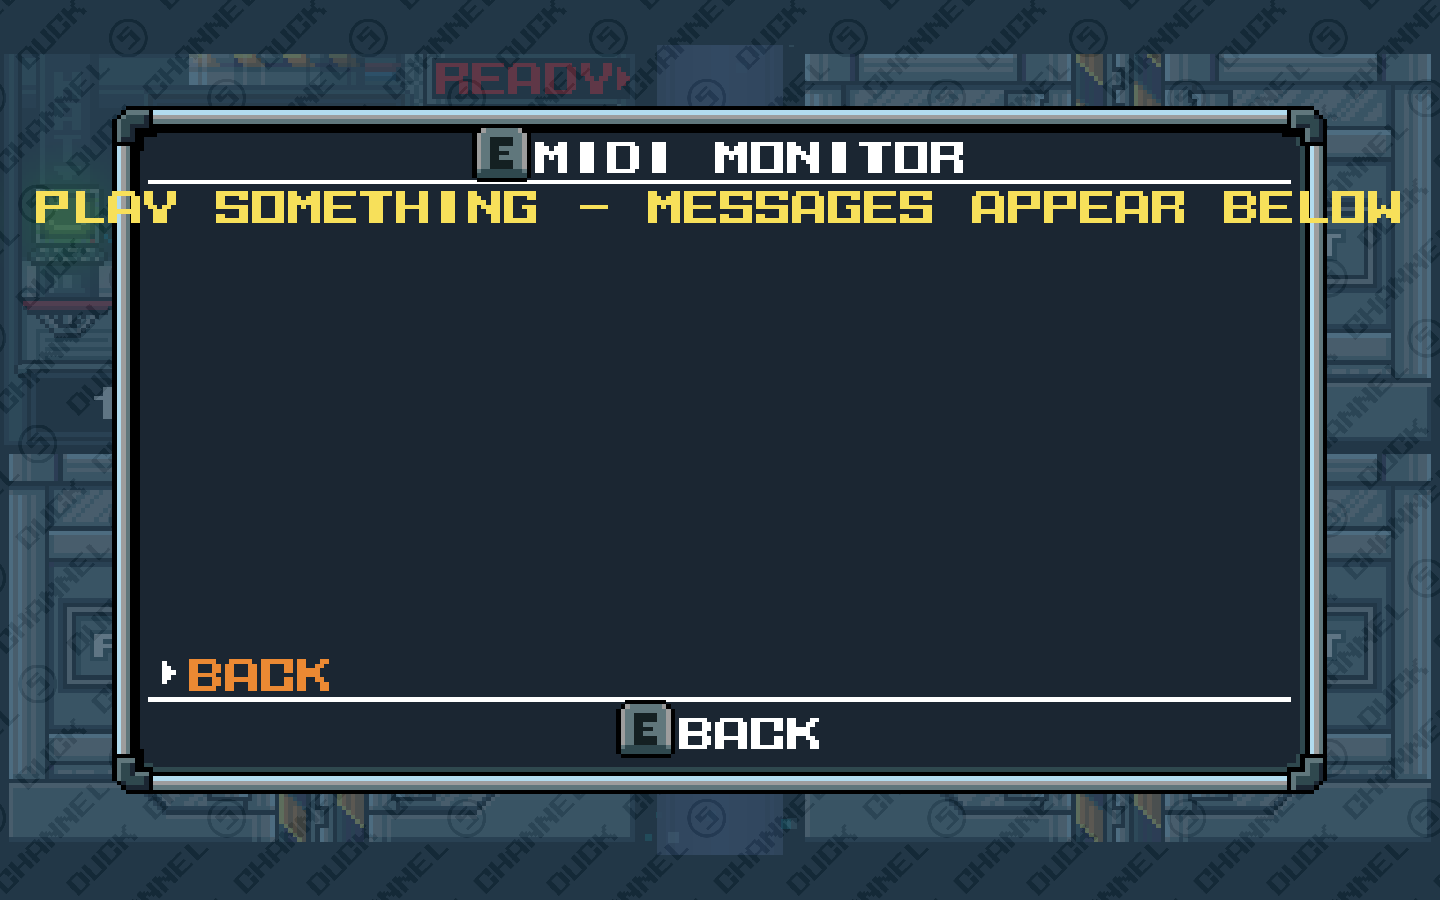
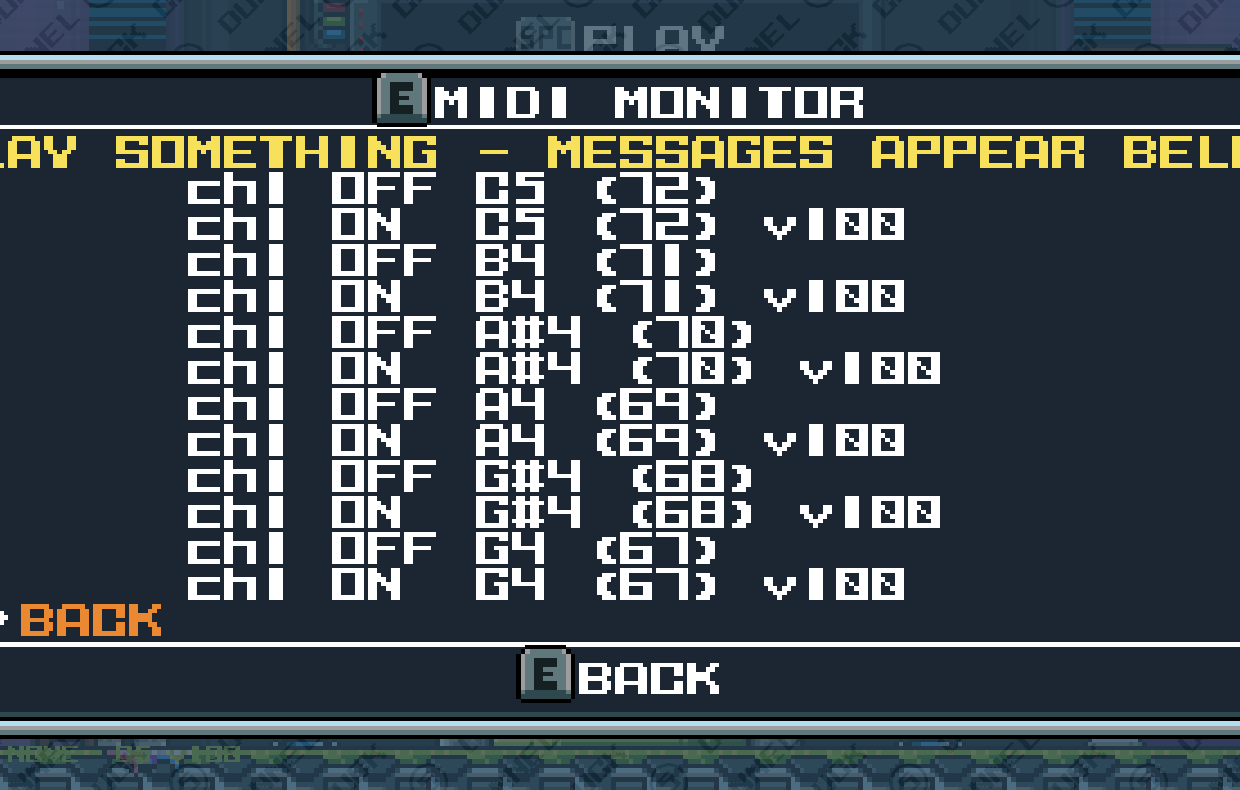
Weave screenshots through the README, and fix MIDI Monitor layout
Screenshots now sit next to the thing they explain rather than in a table at the
bottom: the settings menu as a hero shot, the wizard/device picker/HUD under
"Using it", both mapping pages under "Default mapping", play options under
"Settings", the monitor under "Troubleshooting" (where it is the actual
diagnostic step), and midi status under "Multiplayer" as evidence for the
"nomods" claim. Cropped to the dialog so they read at README width.

The monitor fix came out of capturing it: its rows were left-aligned UIText added
straight to a UIMenu, which anchors outside the dialog border, so every line
spilled over the frame. Centring them keeps them inside, and because the bitmap
font is monospace, padding each row to a fixed width makes centred rows line up
as columns anyway. Widened the page to 300 to fit the longest note-on line.

diff --git a/src/UI/MidiSettingsMenu.cs b/src/UI/MidiSettingsMenu.cs
@@ -330,21 +330,28 @@ namespace DuckGame.MidiController
 
         private static void BuildMonitorMenu(float cx, float cy)
         {
-            UIMenu m = new UIMenu("@QUACK@MIDI MONITOR", cx, cy, 270f,
+            UIMenu m = new UIMenu("@QUACK@MIDI MONITOR", cx, cy, 300f,
                 conString: "@CANCEL@BACK");
 
             m.Add(new UIText("PLAY SOMETHING - MESSAGES APPEAR BELOW", Colors.DGYellow, UIAlign.Center), true);
             for (int i = 0; i < 12; i++)
             {
                 int line = i;
+                // Centred, not left-aligned: a left-aligned UIText added straight to a
+                // UIMenu anchors outside the dialog border and the rows spill over the
+                // frame. The bitmap font is monospace, so padding every row to the same
+                // width (see MonitorLine) makes centred rows line up as columns anyway.
                 m.Add(new UIText(new Func<string>(delegate { return MonitorLine(line); }),
-                    Color.White, UIAlign.Left), true);
+                    Color.White, UIAlign.Center), true);
             }
             m.Add(MakeBackItem(m), true);
 
             m.Close();
             _monitorMenu = m;
         }
+
+        /// <summary>One monitor row, newest first, padded so the columns line up.</summary>
+        private const int MonitorLineWidth = 24;
 
         private static string MonitorLine(int index)
         {
@@ -354,7 +361,10 @@ namespace DuckGame.MidiController
             // Newest at the top.
             int i = lines.Length - 1 - index;
             if (i < 0 || i >= lines.Length) return "";
-            return lines[i];
+
+            string s = lines[i];
+            if (s.Length > MonitorLineWidth) s = s.Substring(0, MonitorLineWidth);
+            return s.PadRight(MonitorLineWidth);
         }
 
         // --- first-run wizard -----------------------------------------------

diff --git a/README.md b/README.md
@@ -3,7 +3,10 @@
 Play Duck Game's instruments with a real MIDI keyboard, beat machine, or pad controller.
 
 Drum kit, keytar, saxophone, trombone, trumpet — plus pitched quacks. Plug in, pick up an
-instrument, play. **Other players hear your performance even if they don't have the mod.**
+instrument, play. **Other players hear your performance even if they don't have the mod,
+and you can still join public lobbies.**
+
+![The MIDI Controller settings menu, showing an auto-detected Akai MPKmini2](docs/screenshots/01-settings-menu.png)
 
 ---
 
@@ -37,8 +40,8 @@ the stock Steam build and Duck Game Rebuilt with no separate download.
 
 ## Using it
 
-Plug your controller in **before** launching, and it connects on its own. If you plug in
-later, it's picked up within a couple of seconds.
+Plug your controller in **before** launching, and it connects on its own — no setup step.
+If you plug in later, it's picked up within a couple of seconds.
 
 1. Start any match.
 2. Open the console with `` ` `` and type `midi spawn drums` (or `sax`, `keytar`,
@@ -46,6 +49,20 @@ later, it's picked up within a couple of seconds.
 3. Grab the instrument and play.
 
 Press **F9** for settings, or type `midi settings`.
+
+First time in, the setup wizard walks you through it and tracks where you've got to:
+
+![The setup wizard, showing "STEP 2: SPAWN AND HOLD AN INSTRUMENT"](docs/screenshots/07-setup-wizard.png)
+
+Devices are picked automatically, but you can choose one if you have several. The
+connected input is marked, and the list refreshes as hardware comes and goes:
+
+![The MIDI device picker listing MPKmini2 as connected](docs/screenshots/02-device-picker.png)
+
+While you play, a small HUD in the corner shows the held instrument and the last note, so
+you can tell at a glance that it's working. It fades out when you stop:
+
+![The in-play HUD reading "MIDI NONE A#3 v100"](docs/screenshots/08-hud-live-note.png)
 
 No controller handy? `midi test scale`, `midi test drums` and `midi test quack` play
 synthetic notes through the whole pipeline — useful for checking the mod works before
@@ -74,8 +91,13 @@ steps. Notes outside that range fold back into it unless you turn *Fold Octaves*
 **Quack** listens on its own MIDI channel — channel 2 by default — so you can quack a
 bassline underneath a saxophone solo. It's also what plays if you're holding nothing.
 
-Everything is remappable: **Settings → Drum Mapping / Note Mapping**, select a row, hit a
-pad or key.
+Everything is remappable: **Settings → Drum Mapping / Note Mapping**, select a row, then
+hit the pad or key you want on it. Rows left alone stay on the automatic routing, shown as
+`auto`:
+
+![Drum mapping, listing all eight kit voices set to auto (GM)](docs/screenshots/03-drum-mapping.png)
+
+![Note mapping, listing 13 scale steps from auto C4 up to auto C5](docs/screenshots/04-note-mapping.png)
 
 ## Settings
 
@@ -91,6 +113,8 @@ pad or key.
 | Slur nearby notes | Glide between adjacent notes instead of re-articulating |
 | Show HUD | The small status readout during play |
 | Player slot | Which local player to drive in splitscreen |
+
+![The Play Options page with root note, priority, quack channel and other settings](docs/screenshots/05-play-options.png)
 
 ## Console commands
 
@@ -138,11 +162,9 @@ from an unmodded one. That's legitimate here because the mod is genuinely conten
   exactly this category of client-side mod. That list lives in the game binary and can't
   be added to from outside, so dropping out of the accessible-mod list is the equivalent.
 
-Check it any time with `midi status`:
+Check it any time with `midi status` — `"nomods"` means lobbies see an unmodded client:
 
-```
-[MIDI]   lobbies:    public lobbies OK (mod hash "nomods")
-```
+![Console output of midi status showing lobbies: public lobbies OK (mod hash "nomods")](docs/screenshots/09-console-status.png)
 
 **The honest trade-off:** because the mod is excluded from the hash, it also doesn't
 appear in a lobby's mod list, so a host enforcing a strict "no mods" policy can't see it.
@@ -154,11 +176,15 @@ removes itself.
 
 ## Troubleshooting
 
-**Nothing happens when I play.** Open **Settings → MIDI Monitor** and play a key. If
-messages appear there, the mod is receiving fine and the issue is mapping — check you're
-holding an instrument, and check the root note. If nothing appears, the mod is not
-receiving: run `midi devices`, and make sure no other application has the port open (MIDI
-inputs on Windows are exclusive — a DAW will lock the device).
+**Nothing happens when I play.** Open **Settings → MIDI Monitor** and play a key. This is
+the fastest way to split the problem in half:
+
+![The MIDI Monitor showing live note on/off messages with note names and velocities](docs/screenshots/06-midi-monitor.png)
+
+If messages appear there, the mod is receiving fine and the issue is mapping — check
+you're holding an instrument, and check the root note. If nothing appears, the mod isn't
+receiving at all: run `midi devices`, and make sure no other application has the port open
+(MIDI inputs on Windows are exclusive — a DAW will lock the device).
 
 **It worked, then stopped.** `midi panic`, then play again.
 
@@ -208,14 +234,3 @@ See [CONTRIBUTING.md](CONTRIBUTING.md) for more.
 MIT — see [LICENSE](LICENSE).
 
 Duck Game is © Landon Podbielski. This is an unofficial community mod.
-
-## Screenshots
-
-| | |
-|---|---|
-| ![Settings](docs/screenshots/01-settings-menu.png) | ![Device picker](docs/screenshots/02-device-picker.png) |
-| Settings root — live device status | Device picker, auto-detected |
-| ![Drum mapping](docs/screenshots/03-drum-mapping.png) | ![Play options](docs/screenshots/05-play-options.png) |
-| Drum mapping with MIDI-learn | Play options |
-| ![Setup wizard](docs/screenshots/07-setup-wizard.png) | ![HUD](docs/screenshots/08-hud-live-note.png) |
-| First-run wizard, live step detection | In-play HUD showing the last note |
